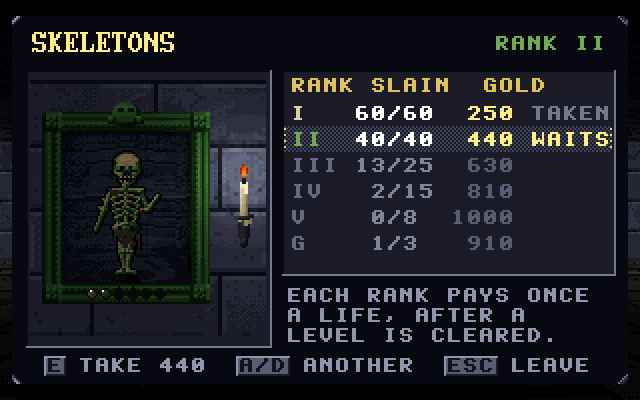
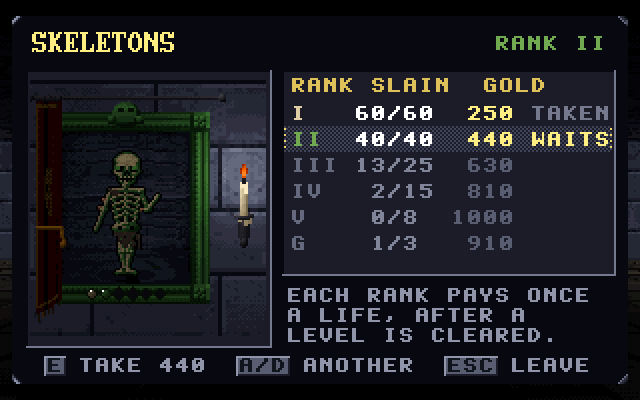
The portraits: the last of the owner's answers
The last third hangs in the back room with the Totem; the tapestry, drawn back, stays tied at
the frame's side; the shade's one rank pays as its third's rank V; the card's A/D goes through
every portrait; and the Wraith Unbound's fall pays only on the boss's portrait. The Sheet, the
CSVs and the plan's tables agree (67,240 a life from the creatures, 108,000 from the bosses).
The tapestry's art keeps the drape (its rod raised over the cartouche, the lamp and ledge
moved to make room), and the mock-ups are drawn again. One question added: the Formula tab's
kill counts were changed, but nothing reads them.

Claude-Session: https://claude.ai/code/session_017SN6xpMoV1Y5g6zBwL4B3X

Changed region(s): [[0.0312, 0.24, 0.125, 0.81], [0.2812, 0.24, 0.3438, 0.27]]

diff --git a/src/crawl_portrait.c b/src/crawl_portrait.c
@@ -41,9 +41,7 @@ static uint8_t at_light(uint8_t c, float l, int x, int y) {
 }
 
 /* ---- pixels, and shapes in texels ---- */
-static float g_fade;                                    /* while set, a dithered share of what is drawn is left out */
 static void pp(int x, int y, uint8_t c) {               /* a pixel, in the face's own pixels */
-    if (g_fade > 0.0f && (float)BAY[y & 3][x & 3] < g_fade * 16.0f) return;
     x += POX; y += POY;
     if ((unsigned)x < (unsigned)PW && (unsigned)y < (unsigned)PH) P[y * PST + x] = c;
 }
@@ -135,7 +133,7 @@ static void smoke(float x, float y, float h, uint32_t seed) {      /* a thread f
 
 /* ---- the layouts: where the frame hangs on the face, and its candles ---- */
 static const int FRAME_AT[NPLAYOUT][4] = {             /* x0, y0, x1, y1: forty-two texels by forty-eight, the picture 32 by 38 */
-    { 4, 8, 46, 56 }, { 18, 8, 60, 56 }, { 11, 8, 53, 56 }, { 11, 15, 53, 63 }, { 11, 3, 53, 51 }, { 18, 8, 60, 56 }, { 5, 8, 47, 56 } };
+    { 4, 8, 46, 56 }, { 18, 8, 60, 56 }, { 11, 8, 53, 56 }, { 11, 15, 53, 63 }, { 11, 4, 53, 52 }, { 18, 8, 60, 56 }, { 5, 8, 47, 56 } };
 void portrait_frame_rect(int layout, int r[4]) { memcpy(r, FRAME_AT[clampi_(layout, 0, NPLAYOUT - 1)], sizeof FRAME_AT[0]); }
 #define MOULD 5                                         /* the frame's width, in texels */
 
@@ -233,8 +231,8 @@ static void layout_lights(int layout, int behind) {                 /* the candl
     case PL_SCONCE_R: if (!behind) sconce(54.5f, 35.0f, 8.0f, 1); break;
     case PL_SCONCE_L: if (!behind) sconce(9.5f, 35.0f, 8.0f, 2); break;
     case PL_PAIR: if (!behind) { sconce(5.0f, 31.0f, 6.0f, 3); sconce(59.0f, 31.0f, 6.0f, 4); } break;
-    case PL_LAMP: if (behind) hung_lamp(32.0f, -0.5f, 9.0f, 5); break;
-    case PL_LEDGE: if (!behind) ledge(9.0f, 55.0f, 56.5f, 6); break;
+    case PL_LAMP: if (behind) hung_lamp(32.0f, -0.5f, 7.0f, 5); break;
+    case PL_LEDGE: if (!behind) ledge(9.0f, 55.0f, 57.0f, 6); break;
     case PL_SKULL: if (!behind) skull_bracket(9.5f, 37.0f, 9); break;
     case PL_STAND: if (!behind) stand(56.0f, 64.0f, 30.0f, 10); break;
     }
@@ -444,12 +442,10 @@ static void picture(const int r[4], const PortraitView *v) {
 }
 
 /* ---- the tapestry: oxblood, pleated, a border of gold thread and a skull worked in it, a fringe; hung from an iron rod over
- * the frame, drawn back to the side away from the candle and gathered there, then gone (veil under 0.15: fading out) ---- */
-static void tapestry(const int r[4], int side, float veil_in) {
-    float veil = veil_in >= 0.15f ? (veil_in - 0.15f) / 0.85f : 0.0f;
-    g_fade = veil_in >= 0.15f ? 0.0f : 1.0f - veil_in / 0.15f;
-    float X0 = (float)r[0] - 1.5f, X1 = (float)r[2] + 1.5f, Y0 = (float)r[1] - 2.2f, Y1 = (float)r[3] + 2.4f, Wc = X1 - X0;
-    float Wv = Wc * (0.17f + 0.83f * veil), deep = 1.0f - veil;
+ * the frame and its cartouche, drawn back to the side away from the candle and left there, gathered and tied (the owner's Q8) ---- */
+static void tapestry(const int r[4], int side, float veil) {
+    float X0 = (float)r[0] - 1.5f, X1 = (float)r[2] + 1.5f, Y0 = (float)r[1] - 3.2f, Y1 = (float)r[3] + 2.4f, Wc = X1 - X0;
+    float Wv = Wc * (0.14f + 0.86f * veil), deep = 1.0f - veil;   /* gathered, it covers the frame's side and no more */
     static const char *const SK[7] = { ".#####.", "#######", "#..#..#", "#######", ".##.##.", ".#.#.#.", "......." };
     for (int y = lo_px(Y0); y < hi_px(Y1 + 2.4f); y++)
         for (int x = lo_px(X0); x < hi_px(X1); x++) {
@@ -487,7 +483,6 @@ static void tapestry(const int r[4], int side, float veil_in) {
         float rx = side ? X1 - Wv * ((float)k + 0.5f) / 5.0f : X0 + Wv * ((float)k + 0.5f) / 5.0f;
         ellipse(rx, Y0 - 0.2f, 0.7f, 0.9f, R_IRON, 0.2f, 0.7f);
     }
-    g_fade = 0.0f;
 }
 
 void portrait_face(uint8_t *pix, int stride, int w, int h, int ox, int oy, int s, const PortraitView *v) {
@@ -498,9 +493,9 @@ void portrait_face(uint8_t *pix, int stride, int w, int h, int ox, int oy, int s
     layout_lights(v->layout, 1);
     picture(r, v);
     float fx = (float)(r[0] + r[2]) * 0.5f, fy = (float)(r[1] + r[3]) * 0.5f;
-    static const float LX[NPLAYOUT] = { 54.5f, 9.5f, 32.0f, 32.0f, 32.0f, 9.5f, 55.5f }, LY[NPLAYOUT] = { 24, 24, 20, 6, 46, 26, 22 };
+    static const float LX[NPLAYOUT] = { 54.5f, 9.5f, 32.0f, 32.0f, 32.0f, 9.5f, 55.5f }, LY[NPLAYOUT] = { 24, 24, 20, 5, 47, 26, 22 };
     frame(r, v->frame, LX[v->layout] - fx - 0.0f, LY[v->layout] - fy - 18.0f, v);
-    if (v->veil > 0.0f) {
+    if (v->veil >= 0.0f) {                                              /* below 0: none at all */
         static const int SIDE[NPLAYOUT] = { 0, 1, 0, 0, 0, 1, 0 };     /* gathered away from its candle */
         tapestry(r, SIDE[v->layout], v->veil);
     }

diff --git a/tools/portrait_sheet.py b/tools/portrait_sheet.py
@@ -1,4 +1,4 @@
-"""The portraits' numbers (docs/PLAN-portraits.md) as the owner settled them in the Sheet on 10 November: every slayer achievement,
+"""The portraits' numbers (docs/PLAN-portraits.md) as the owner settled them in the Sheet on 10 November (its revision 67): every slayer achievement,
 read from KINDS in src/scene_crawl.c, the Spectre's and the Wraith's own, a feat for each kind, and the bosses', with the gold
 each pays once a life. Writes docs/portraits/ranks.csv and bosses.csv, a snapshot of the Sheet to build from; the Sheet on
 claude.ai is where they are changed, and this is brought in step with it by hand.
@@ -69,11 +69,16 @@ for k in order:
 
 def gold(third, rank, strength):                         # half up, as the Sheet's ROUND
     return int(START[third] * (1 + SHARE * (STEP[rank] + strength)) / ROUND + 0.5 + 1e-9) * ROUND
+# the owner's Q9 and Q14: a kind of one rank pays as its third's rank V; the Wraith's fourth gem (the Wraith Unbound's fall) lights
+# but pays nothing, the boss's own portrait paying for it
+PAYS_AS = {('SHADE', 'I'): 'V'}
+GEM_ONLY = {('WRAITH', 'IV')}
 
 rows = []
 def add(k, rank, need, title, cond, source, note=''):
-    rows.append(dict(kind=k['name'].title(), rank=rank, need=need, gold=gold(k['third'], rank, k['str']), title=title, cond=cond,
-                     source=source, third=k['third'] + 1, str=k['str'], xp=k['xp'], note=note))
+    pays = (k['name'], rank) not in GEM_ONLY
+    rows.append(dict(kind=k['name'].title(), rank=rank, need=need, gold=gold(k['third'], PAYS_AS.get((k['name'], rank), rank), k['str']),
+                     title=title, cond=cond, source=source, third=k['third'] + 1, str=k['str'], xp=k['xp'], note=note, pays=pays))
 for k in order:
     nm = k['name']
     if nm == 'SPECTRE':
@@ -98,10 +103,11 @@ if '--grid' in sys.argv:
         cells, tot = [], 0
         for r in ROMAN:
             x = [y for y in rows if y['kind'] == k['name'].title() and y['rank'] == r]
-            if x: cells.append('%d: %s' % (x[0]['need'], format(x[0]['gold'], ','))); tot += x[0]['gold']
+            if x and not x[0]['pays']: cells.append('%d: gem only' % x[0]['need'])
+            elif x: cells.append('%d: %s' % (x[0]['need'], format(x[0]['gold'], ','))); tot += x[0]['gold']
             else: cells.append('-')
         print('| %d | %s | %d | %.2f | %s | %s |' % (i + 1, k['name'].title(), k['third'] + 1, k['str'], ' | '.join(cells), format(tot, ',')))
-    tot = [sum(x['gold'] for x in rows if x['third'] == t) for t in (1, 2, 3)]
+    tot = [sum(x['gold'] for x in rows if x['third'] == t and x['pays']) for t in (1, 2, 3)]
     b = sum(g * (1 + 0.2 * s) for _, g in BOSSES for s in range(6))
     print('\nrows %d; by third %s; all %s; bosses %s' % (len(rows), [format(v, ',') for v in tot], format(sum(tot), ','), format(int(b), ',')))
     sys.exit(0)
@@ -111,7 +117,7 @@ if '--md' in sys.argv:
 with open(os.path.join(ROOT, 'docs/portraits/ranks.csv'), 'w', newline='') as f:
     w = csv.writer(f)
     w.writerow(['Kind', 'Rank', 'Slain', 'Gold', 'Achievement', 'Condition', 'Pays', 'Source', 'Third', 'Strength', 'Kind XP'])
-    for x in rows: w.writerow([x['kind'], x['rank'], x['need'], x['gold'], x['title'], x['cond'], 'TRUE', x['source'], x['third'], x['str'], x['xp']])
+    for x in rows: w.writerow([x['kind'], x['rank'], x['need'], x['gold'], x['title'], x['cond'], 'TRUE' if x['pays'] else 'FALSE', x['source'], x['third'], x['str'], x['xp']])
 with open(os.path.join(ROOT, 'docs/portraits/bosses.csv'), 'w', newline='') as f:
     w = csv.writer(f)
     w.writerow(['Achievement', 'Deed', 'Gold', 'Pays', 'Condition'])

diff --git a/tools/portraitmock.c b/tools/portraitmock.c
@@ -326,7 +326,7 @@ static void skel_at(float t) {
 /* the tapestry: hung over it, a prompt; drawn back; one slain, so its shadow walks there */
 static void veil_at(float t) {
     faces_begin(13, 7);
-    float k = 1.0f - 0.85f * smooth(1.6f, 2.8f, t) - 0.15f * smooth(3.1f, 3.6f, t);   /* gathered aside, then gone */
+    float k = 1.0f - smooth(1.6f, 2.9f, t);                     /* gathered aside, and tied there */
     PortraitView v = pv_of(K_SHAMB, -1, -1, 0, PL_PAIR, 0, 0, k, t);
     v.walk0 = 2.2f;
     face_portrait(16, v, g_res);
@@ -338,14 +338,14 @@ static void veil_at(float t) {
         ui_keys(&F, x, 181, s, R_STONE + 13);
     }
 }
-/* her north wall from the middle of her room: the torches, the sign, four portraits in four states */
+/* her north wall from the middle of her room, where the second third hangs: the torches, the sign, four portraits in four states */
 static void room_at(float t) {
     faces_begin(11, 9);
     FACES[12 - FX0].kind = FC_TORCH; FACES[18 - FX0].kind = FC_TORCH; FACES[15 - FX0].kind = FC_SIGN;
-    PortraitView a = pv_of(K_SKEL, RK_II, RK_II, 1, PL_SCONCE_L, 3, 2, 0.0f, t);
-    PortraitView b = pv_of(K_BAT, RK_I, -1, 0, PL_LEDGE, 0, 0, 1.0f, t);
-    PortraitView c = pv_of(K_SHIELD, RK_IV, RK_IV, 3, PL_LAMP, 15, 0, 0.0f, t);
-    PortraitView d = pv_of(K_SHAMB, -1, -1, 0, PL_PAIR, 0, 0, 0.0f, t);
+    PortraitView a = pv_of(K_DROWN, RK_II, RK_II, 1, PL_SCONCE_L, 3, 2, 0.0f, t);
+    PortraitView b = pv_of(K_HOUND, RK_I, -1, 1, PL_LEDGE, 0, 0, 1.0f, t);
+    PortraitView c = pv_of(K_KNIGHT, RK_IV, RK_IV, 3, PL_LAMP, 15, 0, 0.0f, t);
+    PortraitView d = pv_of(K_GHOUL, -1, -1, 1, PL_PAIR, 0, 0, 0.0f, t);
     a.walk0 = 0.0f; c.walk0 = 0.8f; d.walk0 = 2.4f;
     face_portrait(13, a, g_res); face_portrait(14, b, g_res); face_portrait(16, c, g_res); face_portrait(17, d, g_res);
     view_wall(3.6f, 15.5f, t);

diff --git a/src/crawl_portrait.h b/src/crawl_portrait.h
@@ -21,7 +21,7 @@ typedef struct {
     int layout;                 /* PL_* */
     int ranks[6], nranks;       /* the ranks it comes in, for the gems on the frame's foot */
     int unlocked, unpaid;       /* bits by RK_*: the ranks unlocked; of those, the ones whose gold waits this life */
-    float veil;                 /* the tapestry: 1 over it, 0.15 drawn back to its side, then fading out; 0 gone */
+    float veil;                 /* the tapestry: 1 over it, 0 drawn back and tied at its side; below 0 none */
     float t;                    /* the clock: its walk, the candles */
     float walk0;                /* when its walk began (the bestiary's turn about starts here) */
 } PortraitView;

diff --git a/docs/PLAN-portraits.md b/docs/PLAN-portraits.md
@@ -2,12 +2,13 @@
 
 *Status: a draft (10 November 2026), at the owner's request, on `claude/adoring-hopper-h9ivcg` from main at 1.0.0b21.1. Nothing is in
 the game. The mock-ups are drawn with the game's own textures, sprites, palette and light by `src/crawl_portrait.c` (not in the
-game's build yet) and `tools/portraitmock.c` (`make build/portraitmock`, then `build/portraitmock <dir>`). The owner answered most
-of section 9 the same day (marked there), and settled the numbers in a Sheet on claude.ai,
-[Portraits of the Slain: Gold](https://claude.ai/artifact/2P9JkVQMBEdhAoa6zwB1N6), brought into sections 3 and 4 as it stood at
-its revision 60: the starts 100, 200 and 300, and every row paying, the Spectre's, the Wraith's, the twenty feats and the
-bosses' with them. `docs/portraits/ranks.csv` and `bosses.csv` are that revision's numbers, written by `tools/portrait_sheet.py`
-from `KINDS` and checked against the Sheet row by row. If the Sheet changes again, bring it in the same way before building.*
+game's build yet) and `tools/portraitmock.c` (`make build/portraitmock`, then `build/portraitmock <dir>`). The owner answered every
+question in section 9 the same day (marked there; one more, Q15, came of their last edit) and settled the numbers in a Sheet on
+claude.ai, [Portraits of the Slain: Gold](https://claude.ai/artifact/2P9JkVQMBEdhAoa6zwB1N6), brought into sections 3 and 4 as it
+stood at its revision 67: the starts 100, 200 and 300, every row paying but the Wraith's fourth gem, the Spectre's, the Wraith's,
+the twenty feats and the bosses' with them, and the shade's one rank paying as rank V. `docs/portraits/ranks.csv` and `bosses.csv`
+are that revision's numbers, written by `tools/portrait_sheet.py` from `KINDS` and checked against the Sheet. If the Sheet changes
+again, bring it in the same way before building.*
 
 ## 1. What was asked
 
@@ -30,8 +31,9 @@ the skeleton's frame with ranks I and II unlocked, each walking five seconds in 
 - **Veiled.** Until one of its kind is slain (any rank: `Record.kills`), an oxblood tapestry hangs over it from an iron rod,
   pleated, a border and a skull worked in gold thread, a fringe at its foot.
 - **One slain.** In her room the tapestry waits for you: facing it, *E DRAW BACK THE TAPESTRY* (A on the pad). It gathers to
-  the side away from the candle, is tied back a moment and goes (a dither, as the game's fades go). Behind it is the creature's
-  shadow, walking on the spot and turning about exactly as the bestiary shows a rank not yet met, on bare old wood.
+  the side away from the candle and is tied back there with a gold cord, and stays so, covering the frame's side and no more
+  (settled, Q8). Behind it is the creature's shadow, walking on the spot and turning about exactly as the bestiary shows a rank
+  not yet met, on bare old wood.
 - **A rank unlocked** (its slayer achievement earned): the picture shows the creature in that rank's colours, its dressing and
   its eyes, standing on the floor of the run where the rank was unlocked, that run's stone behind it. With more than one rank
   unlocked it shows each in turn, five seconds each, dissolving between (`skeleton.gif`).
@@ -43,7 +45,7 @@ the skeleton's frame with ranks I and II unlocked, each walking five seconds in 
   and lights the frame and the stone about it.
 - **E at a portrait** opens its card (`card.png`): the picture up close, each rank's slain and needed, its gold and whether it
   was taken this life, waits, or isn't yet earned. E takes all that waits on that portrait at once; A/D go to the next
-  portrait without walking to it; Esc leaves.
+  portrait without walking to it (settled, Q13); Esc leaves.
 - **Paid once a life** (settled). Every rank unlocked pays its gold once a life, at any visit to her room: the visit after a
   level cleared in that life, and the one on waking after a death too. A life runs from waking after a death that costs
   (`death_fall`), or a new run, to the next such death. A rank unlocked in the middle of a level is ready on the next visit.
@@ -59,7 +61,8 @@ and 8; 3 gilded; the Deep's kinds start at rank II, the shade has one rank, bats
 the kind (*ROTTEN SKELETONS*, *COLD*, *BLOODY*, *BLACK*, *GILDED*; chitin's rank V is *PALE*): 104 of them, in the game today.
 To them the owner added, from section 5, the Spectre's three (laid to rest), the Wraith's four (driven back, and the Wraith
 Unbound's fall) and a feat for each of the twenty kinds that can be slain: 27 new achievements, 131 rows in all, every one paying.
-Each cell is *needed: gold*, the gold by the formula in section 4; a feat's needed count is of its own deed (section 5 B).
+Each cell is *needed: gold*, the gold by the formula in section 4; a feat's needed count is of its own deed (section 5 B). The shade's
+one rank pays as its third's rank V (Q9), and the Wraith's fourth gem lights but pays nothing (Q14).
 
 | # | Kind | Third | Strength | I | II | III | IV | V | Gilded | Feat | All |
 |---|---|---|---|---|---|---|---|---|---|---|---|
@@ -72,13 +75,13 @@ Each cell is *needed: gold*, the gold by the formula in section 4; a feat's need
 | 7 | Spider | 1 | 0.29 | 60: 120 | 40: 180 | 25: 240 | 15: 300 | 8: 360 | - | 20: 240 | 1,440 |
 | 8 | Drowned | 2 | 0.60 | 60: 270 | 40: 390 | 25: 510 | 15: 630 | 8: 750 | 3: 690 | 10: 510 | 3,750 |
 | 9 | Bone Hound | 2 | 0.28 | 60: 230 | 40: 350 | 25: 470 | 15: 590 | 8: 710 | - | 10: 470 | 2,820 |
-| 10 | Wraith | 2 | 1.00 | 10: 320 | 40: 440 | 100: 560 | 1: 680 | - | - | - | 2,000 |
+| 10 | Wraith | 2 | 1.00 | 10: 320 | 40: 440 | 100: 560 | 1: gem only | - | - | - | 1,320 |
 | 11 | Hunting Spider | 2 | 0.44 | 60: 250 | 40: 370 | 25: 490 | 15: 610 | 8: 730 | - | 20: 490 | 2,940 |
 | 12 | Ghoul | 2 | 0.52 | 60: 260 | 40: 380 | 25: 500 | 15: 620 | 8: 740 | 3: 680 | 20: 500 | 3,680 |
 | 13 | Skeleton Knight | 2 | 0.92 | 60: 310 | 40: 430 | 25: 550 | 15: 670 | 8: 790 | 3: 730 | 10: 550 | 4,030 |
 | 14 | Brood Mother | 2 | 1.00 | 60: 320 | 40: 440 | 25: 560 | 15: 680 | 8: 800 | - | 5: 560 | 3,360 |
 | 15 | Spiderling | 2 | 0.00 | 60: 200 | 40: 320 | 25: 440 | 15: 560 | 8: 680 | - | 200: 440 | 2,640 |
-| 16 | Shade | 3 | 0.29 | 60: 350 | - | - | - | - | - | 10: 710 | 1,060 |
+| 16 | Shade | 3 | 0.29 | 60: 1,070 | - | - | - | - | - | 10: 710 | 1,780 |
 | 17 | Ember Imp | 3 | 0.00 | 60: 300 | 40: 480 | 25: 660 | 15: 840 | 8: 1,020 | - | 25: 660 | 3,960 |
 | 18 | Deacon | 3 | 0.57 | 60: 400 | 40: 580 | 25: 760 | 15: 940 | 8: 1,120 | 3: 1,030 | 10: 760 | 5,590 |
 | 19 | Gargoyle | 3 | 0.43 | 60: 380 | 40: 560 | 25: 740 | 15: 920 | 8: 1,100 | - | 10: 740 | 4,440 |
@@ -86,7 +89,7 @@ Each cell is *needed: gold*, the gold by the formula in section 4; a feat's need
 | 21 | Sexton | 3 | 0.29 | 60: 350 | 40: 530 | 25: 710 | 15: 890 | 8: 1,070 | 3: 980 | 10: 710 | 5,240 |
 | 22 | Lightless | 3 | 1.00 | - | 60: 660 | 40: 840 | 25: 1,020 | 15: 1,200 | 3: 1,110 | 10: 840 | 5,670 |
 
-Once a life, all of it: **67,200** gold (the first third 10,220, the second 25,220, the last 31,760).
+Once a life, all of it: **67,240** gold (the first third 10,220, the second 24,540, the last 32,480).
 
 **The bosses' portraits** (section 5 F, taken), each boss's achievements as its gems, every one paying:
 
@@ -98,13 +101,13 @@ Once a life, all of it: **67,200** gold (the first third 10,220, the second 25,2
 | The Wraith Unbound | 4,500 | 5,400 | 6,300 | 7,200 | 8,100 | 9,000 | 40,500 |
 
 *Slain* is the boss's achievement on the way down (`ACH_BOSS0 + 6b`); a step is its fall at that challenge step at the Accursed
-Portal (`ACH_BOSS0 + 6b + step`), a fifth more a step. Once a life, all of it: **108,000**. Everything together: **175,200**.
+Portal (`ACH_BOSS0 + 6b + step`), a fifth more a step. Once a life, all of it: **108,000**. Everything together: **175,240**.
 
 **Not the portraits'**: *CUT OFF THE HEAD*, *SHEPHERD OF NONE* and *THE LEADERLESS DEAD* (a pack's leader slain first, 1, 10, 50)
 and *BEFORE THE CRY* and *A HOUSE OF SILENCE* (a caller slain before it calls, 1, 10) stay achievements and pay nothing.
 
-**Doubled, to settle.** The Wraith's fourth gem is *THE WRAITH UNBOUND* slain, which is also the Wraith Unbound's own portrait's
-first gem: as the Sheet stands, that one fall pays 680 on the Wraith's portrait and 4,500 on the boss's, every life. Q14 asks.
+**One fall, one payment** (Q14). The Wraith's fourth gem is *THE WRAITH UNBOUND* slain, which is also the Wraith Unbound's own
+portrait's first gem. Only the boss's portrait pays for it (4,500); on the Wraith's portrait the gem lights and pays nothing.
 
 ## 4. The gold, and what it weighs (settled)
 
@@ -121,17 +124,16 @@ first gem: as the Sheet stands, that one fall pays 680 on the Wraith's portrait 
 
 **What it weighs.** A level's haul is `gear_haul`: about 700 gold on level 2, 5,500 on 10, 19,600 on 20, 42,700 on 30 and 74,800
 on 40, and wares are priced against it. A death that costs leaves a person with nothing; the portraits pay at once on waking and
-again after each level cleared, everything unlocked, once a life. With the first third whole and half the second, about 22,800:
-a level-20 haul in the hand before level 1. With every creature's row, 67,200, nine tenths of a level-40 haul; with the bosses'
-too, 175,200, more than two. The bosses' rows are three fifths of it, and their challenge steps most of those: a first descent's
+again after each level cleared, everything unlocked, once a life. With the first third whole and half the second, about 22,500:
+a level-20 haul in the hand before level 1. With every creature's row, 67,240, nine tenths of a level-40 haul; with the bosses'
+too, 175,240, more than two. The bosses' rows are three fifths of it, and their challenge steps most of those: a first descent's
 four falls pay 12,000. Her wares are limited to one to three a visit, but the Corpus Compendium sells back every piece worn
 before at 1.2 times its price, as many as can be paid for: a person who dies deep will buy much of their kit back at once. If
 that proves too much, the levers, in the order I would reach for them: a portrait pays only its highest rank's gold each life;
 or one portrait's gold a visit; or the bosses' steps lowered. The dream takes no gold, so nothing in its runs measures this;
 only playing does.
 
-**The shade** has one rank: 350 for its 60 slain, half what its feat pays (710). Q9 asks whether its one rank should pay as its
-third's rank V (1,070).
+**The shade** has one rank, so it pays as its third's rank V (settled, Q9): 1,070 for its 60 slain, beside its feat's 710.
 
 ## 5. Suggestions for more
 
@@ -183,8 +185,9 @@ The owner took A, B and F (10 November, in the Sheet); C, D, E and G are not tak
 - **The run behind it** is that run's main stone (dressed ashlar, bedded slate, rough granite, obsidian with its glowing seams)
   and first floor, made once as the game starts and kept. Her room is always drawn in level 1's palette, so the Catacombs', the
   Mine's and the Glass's stone keep their shapes but take the Crypts' tint there; the mock-ups show it so.
-- **The tapestry**: oxblood with a gold border, the skull worked in it, a fringe; drawn aside to the side away from the candle,
-  tied with a gold cord, then gone. `tapestry.gif` is the moment.
+- **The tapestry**: oxblood with a gold border, the skull worked in it, a fringe, on an iron rod over the frame and its cartouche;
+  drawn aside to the side away from the candle and tied there with a gold cord, where it stays, over the frame's side moulding.
+  `tapestry.gif` is the moment; every revealed portrait in the sheets wears its drape.
 
 ![Seven candles](portraits/candles.png)
 
@@ -207,21 +210,24 @@ The owner took A, B and F (10 November, in the Sheet); C, D, E and G are not tak
 The animation asked for, the skeleton's frame with ranks I and II unlocked, I on the Crypts' ashlar and II on the Catacombs'
 slate, each walking five seconds, the frame green for II, II's gold waiting: `portraits/skeleton.gif`.
 
-## 7. Where they hang
+## 7. Where they hang (settled, Q7)
 
-Her room is eleven cells by six; there are exactly twenty-two bare faces on its four walls once the torches, the sign, the door,
-the arches and what stands against them are left out:
+The first two thirds in her room, the last in the back room with the Totem, the Compendium and the Repository.
 
-- **South wall** (faces looking north, the first thing seen on turning from the wares): x 10, 11, 12, 13, 17, 18, 20. The
-  shrine and its candles stand before 14-16, the arch to the plot is 19, the urn stands before 20. *The first third.*
-- **North wall**, behind the pedestals' arc: x 10, 11, 13, 14, 16, 17, 19 (12 and 18 the torches, 15 her sign, 20 the arch to
-  the Lampstand). Seven of *the second third*.
-- **East wall**, by the door: y 12, 14, 16, 17 (13 a torch, 15 the door). **West wall**, by her: y 12, 14, 15, 16 (13 the arch to
-  the back room, 17 a torch; 15 and 16 are behind her). The spiderling and *the last third*.
+- **Her room's south wall** (faces looking north, the first thing seen on turning from the wares): x 10, 11, 12, 13, 17, 18, 20.
+  The shrine and its candles stand before 14-16, the arch to the plot is 19, the urn stands before 20. *The first third*, the
+  Skeleton to the Spider.
+- **Her room's north wall**, behind the pedestals' arc: x 10, 11, 13, 14, 16, 17, 19 (12 and 18 the torches, 15 her sign, 20 the
+  arch to the Lampstand). *The second third*, the Drowned to the Brood Mother; **the spiderling** beside its mother round the corner
+  on the east wall at y 12. The rest of the east wall and all of the west, where she sits, stay bare.
+- **The back room** (x 4-8, y 12-17, through the arch beside her): its east wall, the back of her west wall, at y 12, 14, 15, 16
+  and 17 (13 is the arch), facing the Repository across the Compendium's lectern; and its north wall at x 7 and 8 (the Totem
+  stands in the corner before 4, its candles before 5, and 6 is kept clear beside them). *The last third*, the Shade to the
+  Lightless.
 
-What stands in front: the pedestals hide the north wall's lower half from the middle of the room, she sits before two of the
-west's and the urn before one. Walking up to a portrait to read it is the way, and the card's A/D makes walking to each needless.
-Twenty-two candles brighten her room; their power can come down until it looks as it does now.
+What stands in front: the pedestals hide the north wall's lower half from the middle of her room, and the urn one of the south's.
+Walking up to a portrait to read it is the way, and the card's A/D makes walking to each needless. Fifteen candles light her room
+and seven the back room; their power can come down until the rooms look as they do now.
 
 **The bosses' four** hang in the grave plot, through the arch past the shrine, on its far wall (y 27, faces looking north) either
 side of the Accursed Portal at x 16: the knight at x 12-13 and the spider at 14-15, the Deacon at 17-18 and the Wraith Unbound at
@@ -248,8 +254,8 @@ stands before them. Their art is not drawn yet: a mock-up of one comes before th
 - **The art.** `src/crawl_portrait.c` into the build; the runs' stone and floor kept at start; an overlay a portrait (22 x 64 x 64,
   or 128 x 128 each at 128: 360 KB), drawn again only while its face is in view, its creature's frame changing four times a second
   and its flames twenty; `render_walls` takes them as overlays (`fover`), or at 128 by their own branch.
-- **Her room and the plot.** `gen_shop` hangs them (the faces in section 7, layouts dealt so no neighbours match) and lights their
-  candles; the bosses' four in the plot, two faces each.
+- **Her rooms and the plot.** `gen_shop` hangs them (the faces in section 7: her room, the back room, layouts dealt so no
+  neighbours match) and lights their candles; the bosses' four in the plot, two faces each.
 - **The card.** `UI_PORTRAIT`: the prompt through `pk`, E and the pad's A, A/D, the gold through `RUN.treasure` with
   `SFX_COIN`, a caption (*THE PORTRAIT PAYS 440*).
 - **The Codex** could gain a part, *THE PORTRAITS*, with the rule written down; the bestiary's ranks could show their gold.
@@ -268,19 +274,24 @@ stands before them. Their art is not drawn yet: a mock-up of one comes before th
 5. **The dream.** *Settled: it draws back a tapestry now and then* (its gold not said; taken as none). (a) Leaves them alone:
    no tapestries, no gold. (b) Draws back tapestries but takes no gold. (c) Both.
 6. **Resolution.** *Settled: (a).* (a) 128 texels a face, the creature at its own size. (b) The walls' own 64.
-7. **Where.** (a) All twenty-two on her four walls, as section 7. (b) The last third in the back room with the Totem.
+7. **Where.** *Settled: (b).* (a) All twenty-two on her four walls, as section 7. (b) The last third in the back room with the Totem.
    (c) A long gallery of their own off her room.
-8. **The tapestry, drawn back.** (a) Gone. (b) Left gathered and tied at the side.
-9. **The shade's one rank.** (a) Pays as its third's rank V (1,070), since it is all there is. (b) As the formula (350, as the Sheet
+8. **The tapestry, drawn back.** *Settled: (b).* (a) Gone. (b) Left gathered and tied at the side.
+9. **The shade's one rank.** *Settled: (a).* (a) Pays as its third's rank V (1,070), since it is all there is. (b) As the formula (350, as the Sheet
    stands).
 10. **The Spectre and the Wraith** (5 A). *Settled: (a).* (a) Achievements of their own, so their portraits open. (b) Their portraits stay
     veiled; a joke in itself. (c) Twenty portraits, not twenty-two.
 11. **Feats** (5 B). *Settled: yes, all twenty, paying.* (a) Yes, a step after the portraits. (b) Not now.
 12. **The bosses' portraits** (5 F). *Settled: with these, paying.* (a) Later, with the boss pages the bestiary still lacks.
     (b) With these.
-13. **The card's A/D through every portrait.** (a) Yes. (b) Only E at each, walked to.
-14. **The Wraith Unbound's fall, twice** (section 3). (a) Only the boss's portrait pays for it: the Wraith's fourth gem lights
-    but pays nothing. (b) Both pay, as the Sheet stands. (c) The Wraith's fourth gem becomes another deed.
+13. **The card's A/D through every portrait.** *Settled: (a).* (a) Yes. (b) Only E at each, walked to.
+14. **The Wraith Unbound's fall, twice** (section 3). *Settled: (a).* (a) Only the boss's portrait pays for it: the Wraith's fourth gem lights
+    but pays nothing. (b) Both pay. (c) The Wraith's fourth gem becomes another deed.
+15. **The kills each rank asks.** The owner changed the Formula tab's *Slain, as the game asks* to I 20, II 25, III 20, IV 15,
+    V 10, gilded 5 (the game asks 60, 40, 25, 15, 8 and 3). That column is a reference only: the Ranks rows still ask the game's
+    counts, and so do sections 3 and the CSVs. (a) The new counts for every kind's ranks, the Ranks rows made to read them from
+    the Formula tab (the Deep's kinds, which start at II, taking I's count for their first rank, as the game does now), and
+    `slayer_need` changed to match. (b) Leave the game's counts; the column was a trial.
 
 ## 10. Steps, once it is settled
 
@@ -313,3 +324,10 @@ stands before them. Their art is not drawn yet: a mock-up of one comes before th
   Sheet (the starts, the suggested rows) and writes `docs/portraits/ranks.csv` and `bosses.csv`, checked against the Sheet's 131
   golds and its totals; the workbook it wrote before is gone. Two things found in the numbers went to section 9: the Wraith
   Unbound's fall pays twice (Q14), and the shade's one rank pays half its feat (Q9).
+- **10 November, last.** The owner answered Q7 (b), Q8 (b), Q9 (a), Q13 (a) and Q14 (a). The Sheet was brought in step (its
+  revision 67): the Wraith's fourth row unticked, with a note, and the shade's one rank paying as rank V through an override that
+  follows the inputs (`N92`). `tools/portrait_sheet.py` does the same (`PAYS_AS`, `GEM_ONLY`); the CSVs and section 3 match the
+  Sheet, 67,240 and 108,000. The tapestry now stays drawn back and tied (`crawl_portrait.c`'s `tapestry`: no fade; the rod raised
+  over the cartouche, the lamp and the ledge moved to make room), and every mock-up was drawn again; the room's view shows the
+  second third on her north wall. Section 7 places the last third in the back room. Found in the Sheet and asked as Q15: the
+  Formula tab's kill counts were changed, but nothing reads them.

diff --git a/CLAUDE.md b/CLAUDE.md
@@ -302,9 +302,11 @@ shaded under a hash of the piece (`SCC`), and the still earth, crypt and ground 
 `claude/adoring-hopper-h9ivcg` from main at 1.0.0b21.1; nothing built): a portrait for each bestiary page on her walls, under a
 tapestry till one is slain, then its shadow, then each rank unlocked by its slayer achievement walking in its colours on the stone
 of the run it was unlocked in; the frame's colour the highest rank, a candle beside each in one of seven layouts; each rank's gold
-paid once a life, at every visit to her room; and the bosses' four, two faces wide, by the Accursed Portal. The owner settled most
+paid once a life, at every visit to her room; the first two thirds in her room, the last in the back room; the tapestry left
+tied at the side once drawn back; and the bosses' four, two faces wide, by the Accursed Portal. The owner settled most
 of its questions and the numbers (in a Sheet on claude.ai that its status links: starts of 100, 200 and 300, the Spectre's, the
-Wraith's and twenty feats added, the bosses' rows, every row paying); Q7-Q9, Q13 and Q14 are open. The art for the mock-ups is
+Wraith's and twenty feats added, the bosses' rows, every row paying but the Wraith's fourth gem, the shade at rank V); every
+question is answered but Q15 (the kills each rank asks), which came of the owner's last edit. The art for the mock-ups is
 `src/crawl_portrait.c` (not in the game's build), driven by `tools/portraitmock.c` (`make build/portraitmock`); the settled
 numbers are `docs/portraits/ranks.csv` and `bosses.csv`, written by `tools/portrait_sheet.py` from `KINDS`.
 
